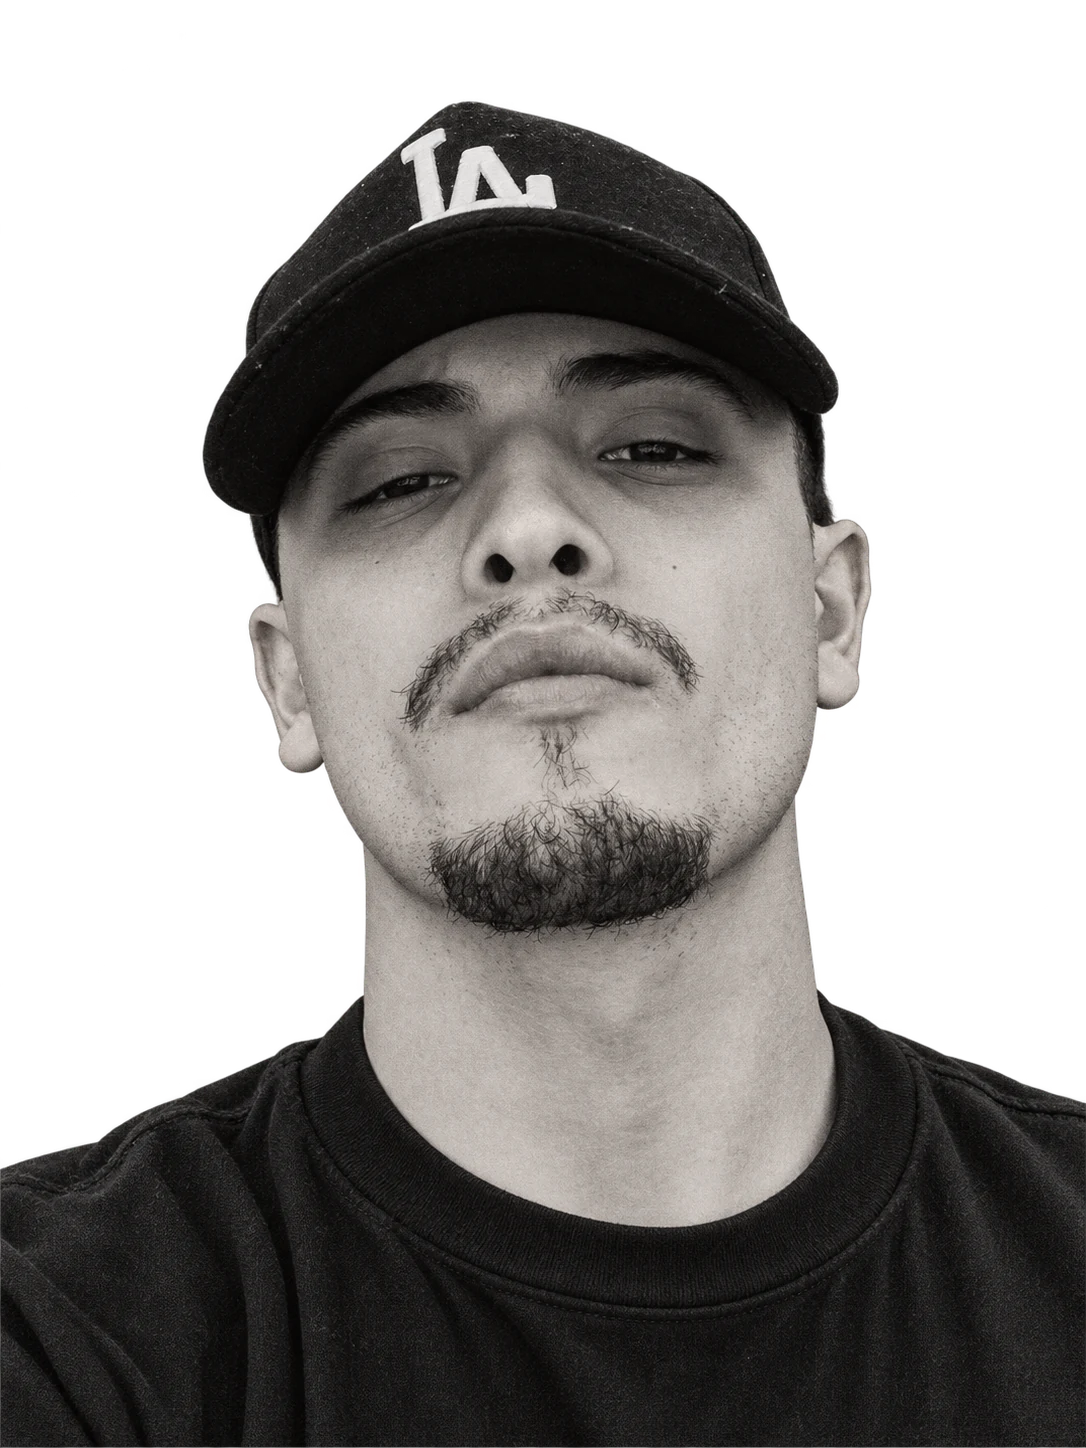
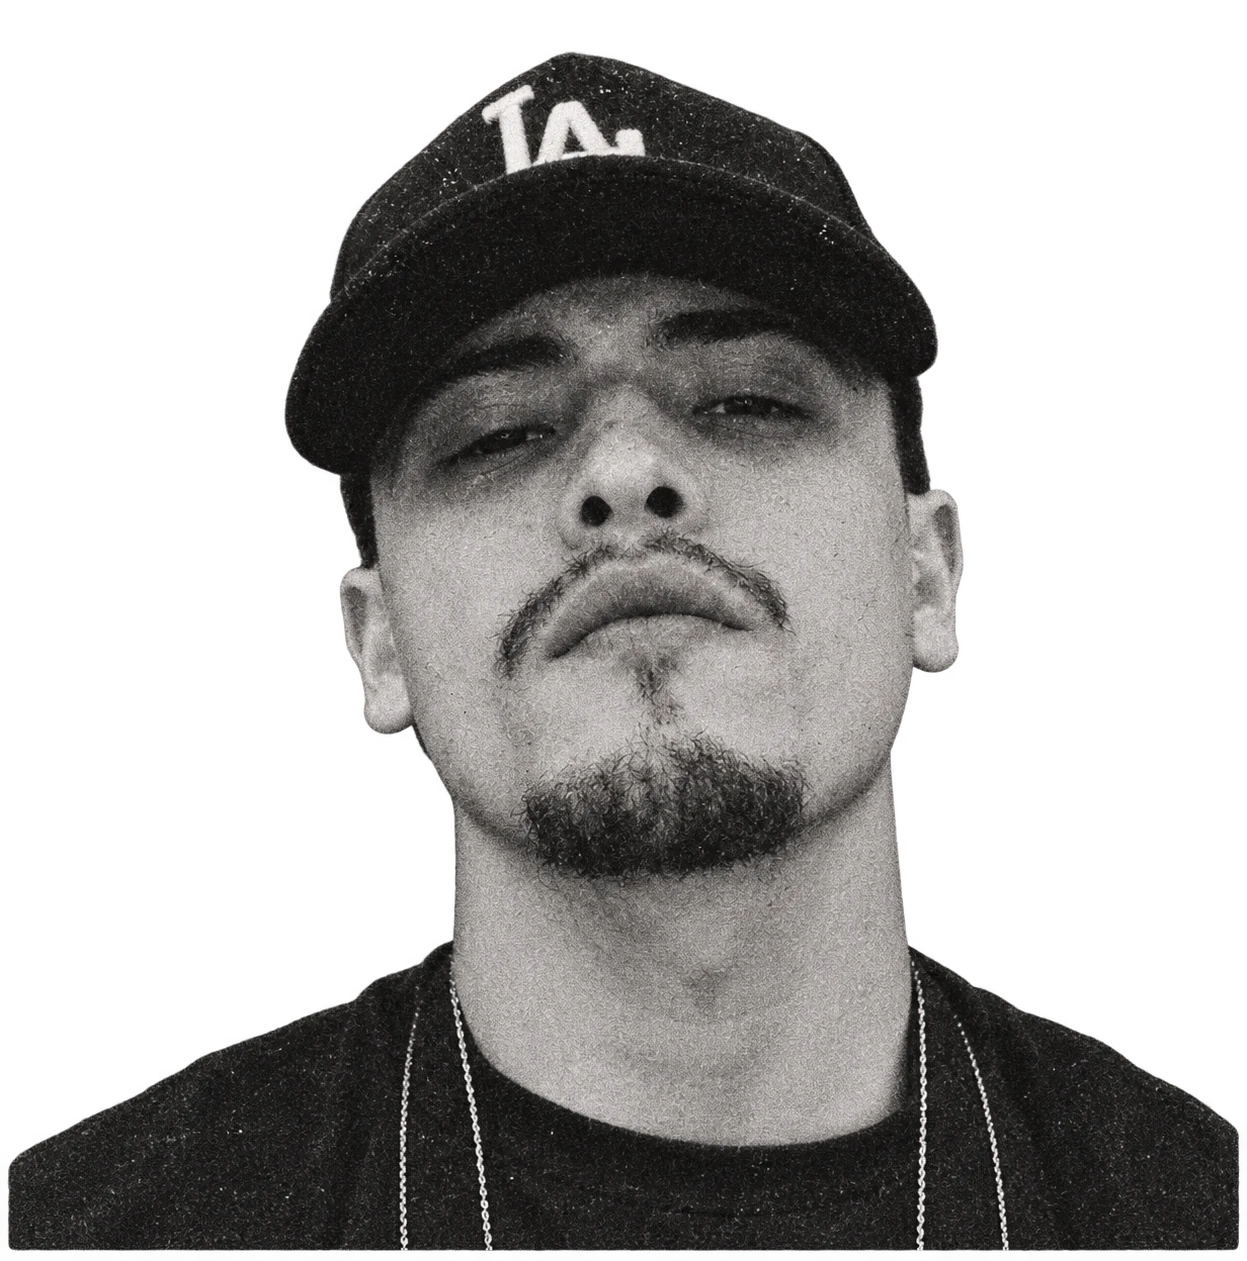
Fix portfolio area labels and refresh portrait

diff --git a/src/styles.css b/src/styles.css
@@ -403,7 +403,8 @@ button:focus-visible, a:focus-visible { outline: 1px solid var(--white); outline
   aspect-ratio: auto;
   margin: clamp(36px, 6vh, 62px) auto 38px;
   border-color: #9d6d84;
-  background: #19191a;
+  background-color: #19191a;
+  background-image: radial-gradient(ellipse at 50% 80%, #2d2b2c 0%, transparent 52%), repeating-linear-gradient(0deg, #ffffff03 0 1px, transparent 1px 4px), repeating-linear-gradient(90deg, #ffffff02 0 1px, transparent 1px 4px);
   box-shadow: 0 28px 100px #0008;
 }
 .home-hub .board-logo {
@@ -552,6 +553,7 @@ button:focus-visible, a:focus-visible { outline: 1px solid var(--white); outline
 .home-hub .board-tags span:nth-child(2) { background: #edcad8; transform: rotate(2deg); }
 .home-hub .board-tags span:nth-child(3) { background: #e8dc92; transform: rotate(-1deg); }
 .home-hub .home-portrait { position: absolute; z-index: 2; bottom: -1px; left: 50%; width: min(46%, 550px); height: 94%; margin: 0; overflow: visible; border: 0; background: transparent; box-shadow: none; transform: translateX(-50%); }
+.home-hub .home-portrait::before { position: absolute; z-index: -1; inset: 9% 7% 0; border: 1px solid #ded7d252; background: #d6d0c514; content: ''; transform: rotate(-1deg); }
 .home-hub .home-portrait img { display: block; width: 100%; height: 100%; object-fit: contain; object-position: center bottom; filter: grayscale(1) contrast(1.04) brightness(.88); }
 .home-hub .board-identity { position: absolute; z-index: 4; top: 34%; left: 5%; width: 25%; }
 .home-hub .board-identity .micro-label { margin: 0 0 2px; color: #eee8e3; font-family: Caveat, cursive; font-size: clamp(23px, 2.8vw, 35px); font-weight: 500; letter-spacing: 0; transform: rotate(-4deg); }
@@ -560,9 +562,9 @@ button:focus-visible, a:focus-visible { outline: 1px solid var(--white); outline
 .home-hub .board-areas { position: absolute; z-index: 5; inset: 0; pointer-events: none; }
 .home-hub .board-areas .area-card { position: absolute; display: grid; width: max-content; max-width: 24%; min-height: 0; padding: 0; overflow: visible; border: 0; background: transparent; box-shadow: none; color: #e9e5e0; text-align: left; pointer-events: auto; transition: color 180ms ease, transform 220ms ease; }
 .home-hub .board-areas .area-card::after, .home-hub .board-areas .area-card-thumbnail { display: none; }
-.home-hub .board-areas .area-card-1 { top: 24%; left: 31%; }
-.home-hub .board-areas .area-card-2 { top: 63%; left: 12%; }
-.home-hub .board-areas .area-card-3 { top: 47%; right: 12%; }
+.home-hub .board-areas .area-systems { top: 24%; left: 31%; }
+.home-hub .board-areas .area-dj { top: 63%; left: 12%; }
+.home-hub .board-areas .area-photography { top: 47%; right: 12%; }
 .home-hub .board-areas .area-note { color: #bbb3ad; font-size: 7px; letter-spacing: .09em; }
 .home-hub .board-areas .area-title { color: #f0ece8; font-family: Caveat, cursive; font-size: clamp(18px, 2vw, 27px); font-weight: 600; letter-spacing: 0; line-height: 1; }
 .home-hub .board-areas .area-arrow { color: #e5dcd5; font-size: 11px; }
@@ -583,9 +585,9 @@ button:focus-visible, a:focus-visible { outline: 1px solid var(--white); outline
   .home-hub .board-identity h1 { font-size: clamp(30px, 8vw, 40px); }
   .home-hub .board-location { top: 29%; right: 6%; font-size: 22px; }
   .home-hub .board-areas .area-card { max-width: 35%; }
-  .home-hub .board-areas .area-card-1 { top: 40%; left: 5%; }
-  .home-hub .board-areas .area-card-2 { top: 59%; left: 7%; }
-  .home-hub .board-areas .area-card-3 { top: 47%; right: 4%; }
+  .home-hub .board-areas .area-systems { top: 40%; left: 5%; }
+  .home-hub .board-areas .area-dj { top: 59%; left: 7%; }
+  .home-hub .board-areas .area-photography { top: 47%; right: 4%; }
   .home-hub .board-areas .area-note { font-size: 7px; }
   .home-hub .board-areas .area-title { font-size: clamp(18px, 5vw, 24px); }
 }
